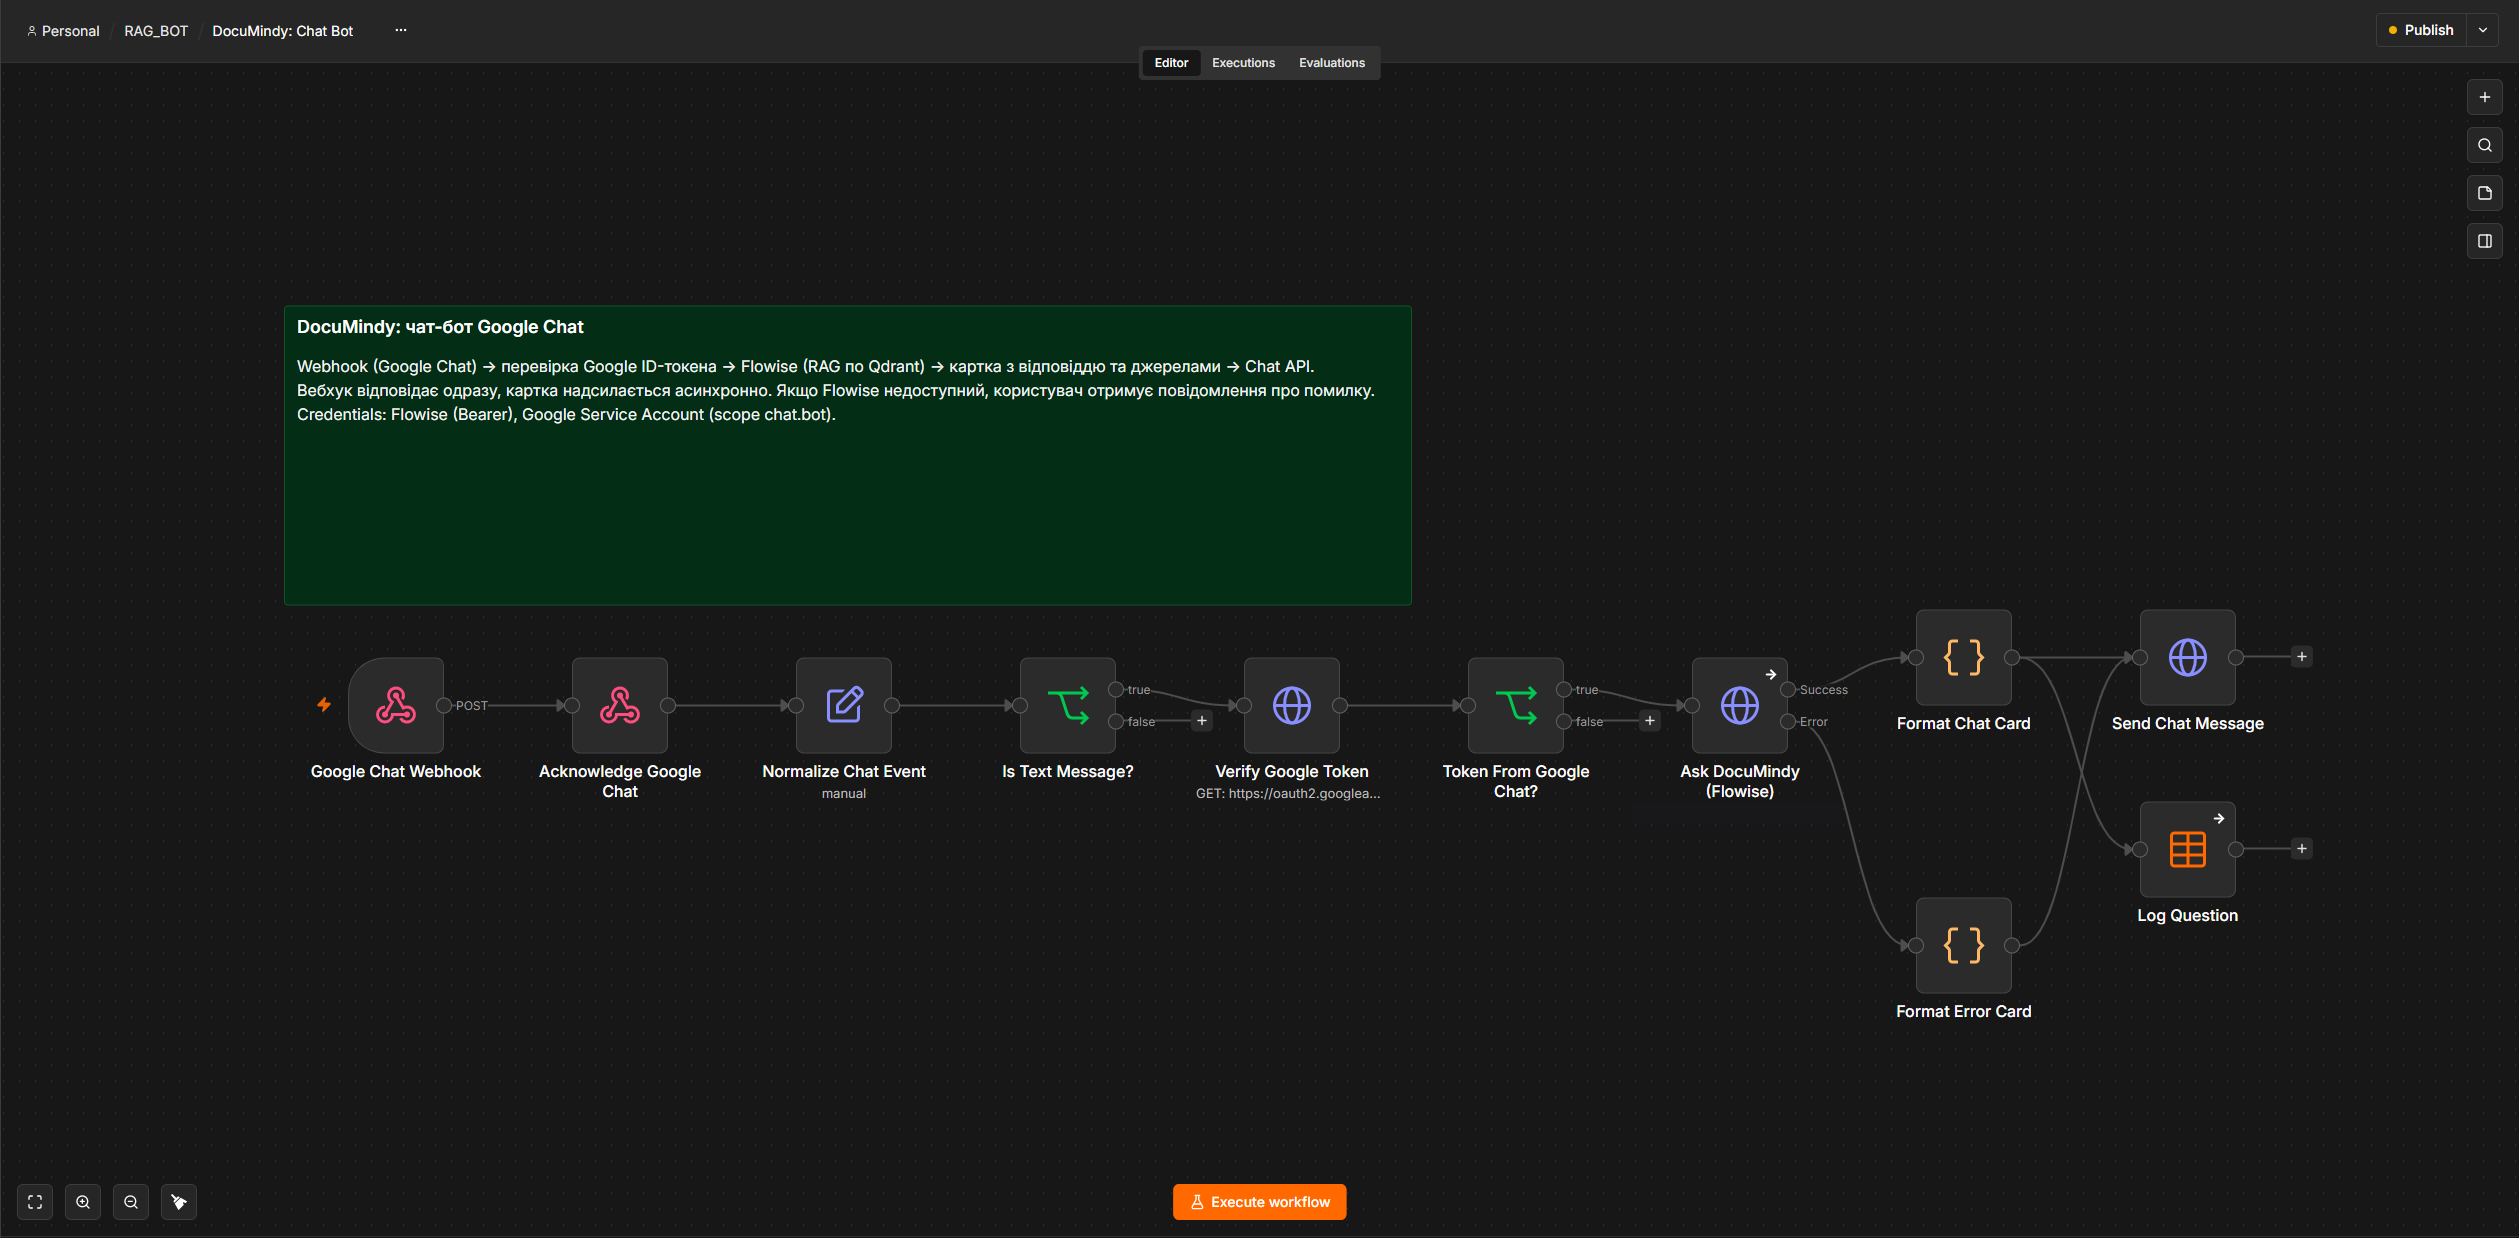
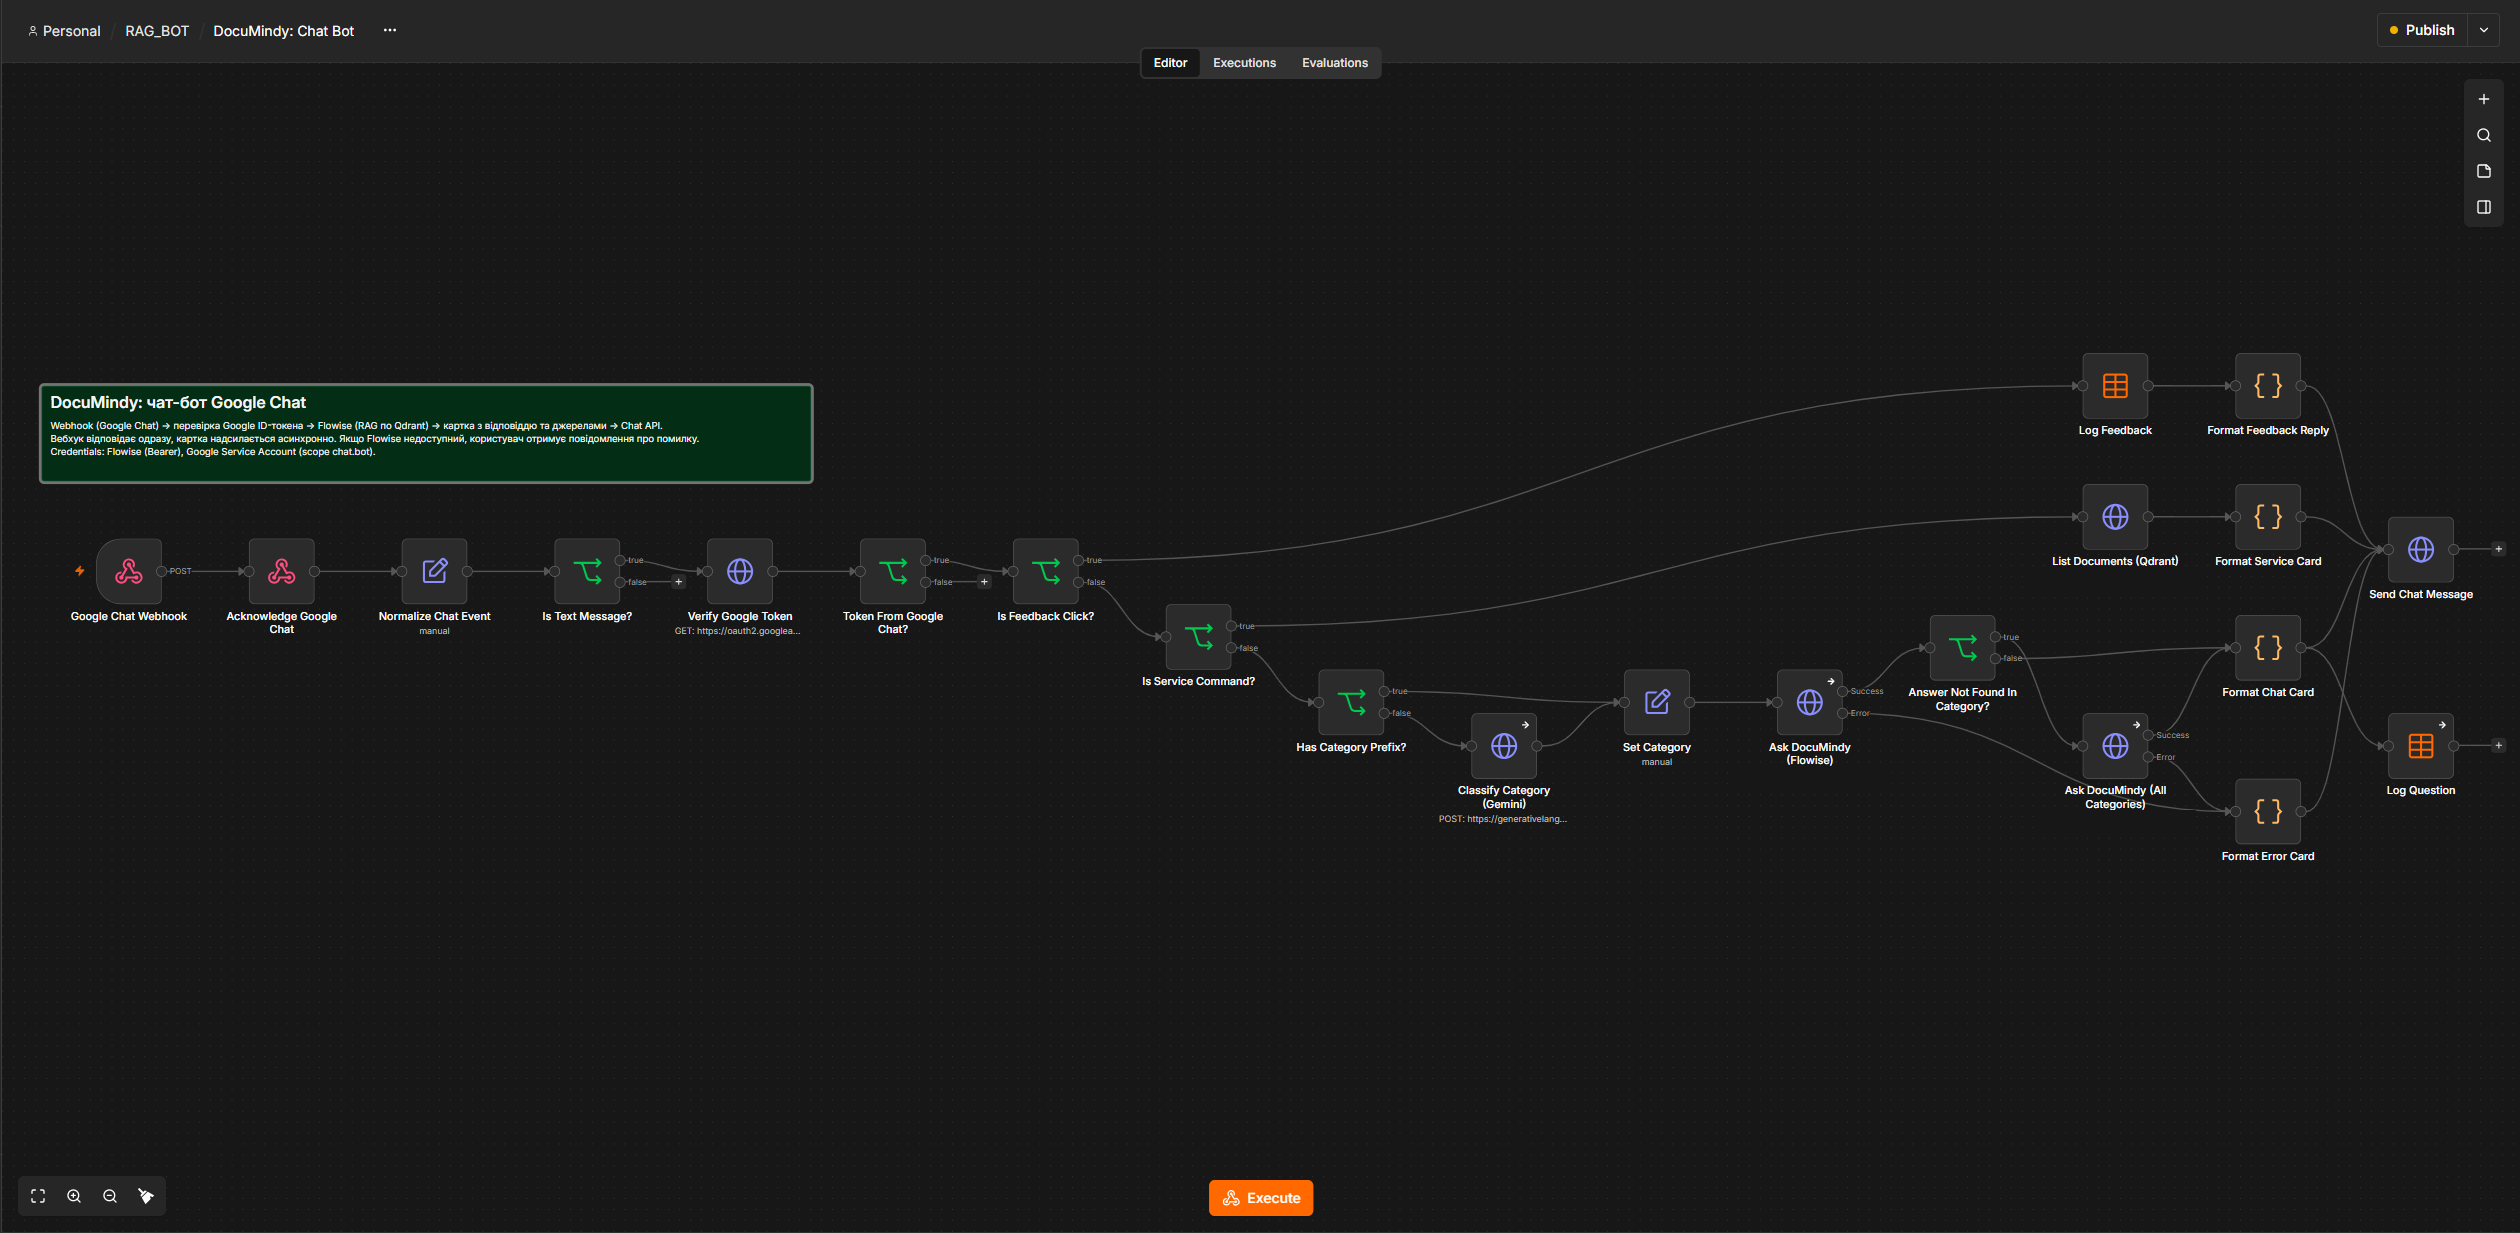
docs: updated flow screenshots and the guide card

diff --git a/README.md b/README.md
@@ -55,7 +55,11 @@ flowchart LR
 
 ![Відповідь про вимоги до паролів і роботу з LMS](docs/chat-answer-passwords-lms.png)
 
-**Флоу в n8n:**
+**Команда «гайд»** (повна інструкція з використання: префікси категорій, команди, оцінки, обмеження; бот показує її й на «допомога», «що ти вмієш»):
+
+![Картка гайду в Google Chat](docs/chat-help-guide.png)
+
+**Флоу в n8n** (Chat Bot: службові команди, категорії, класифікатор, оцінки; Document Indexing: опціональне читання картинок через Gemini):
 
 ![Флоу Chat Bot](docs/flow-chat-bot.png)
 
